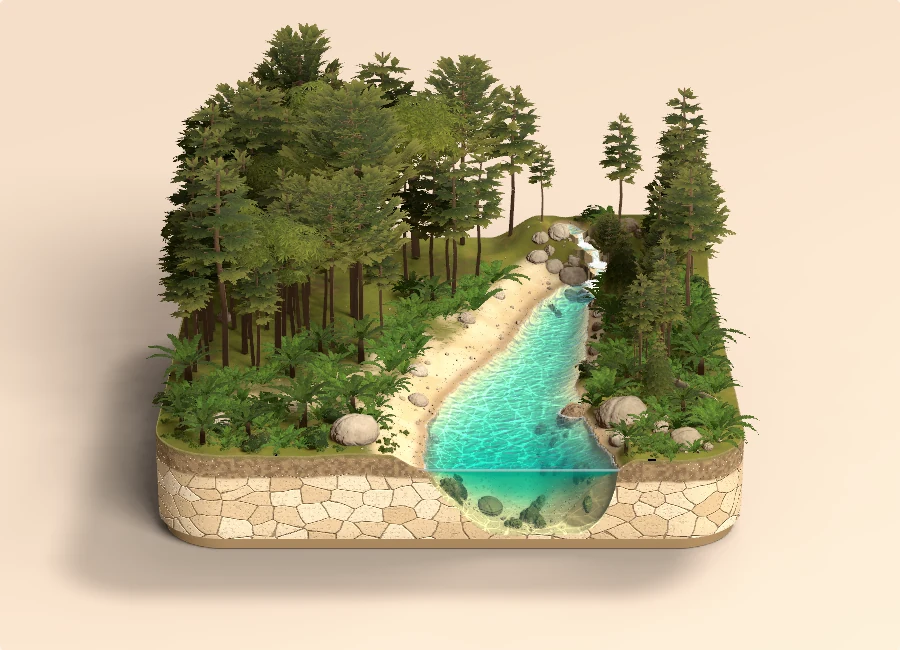
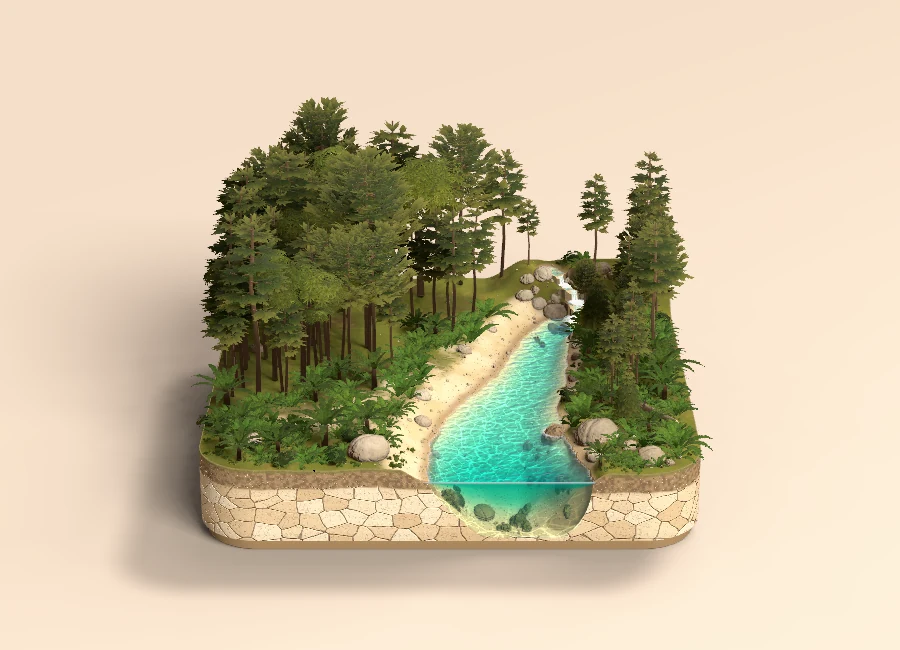
fix: トップの箱庭画像の画角と台座サイズを統一

diff --git a/tests/exhibits/home-thumbnails.spec.ts b/tests/exhibits/home-thumbnails.spec.ts
@@ -1,0 +1,36 @@
+import { test, expect } from '@playwright/test';
+import { mkdirSync } from 'node:fs';
+
+const evidence = process.env.EVIDENCE_DIR || 'test-results/home-thumbnails-page';
+mkdirSync(evidence, { recursive: true });
+test.use({ baseURL: process.env.PREVIEW_URL || 'http://127.0.0.1:3000' });
+
+test('トップの5作品は同じ表示枠で画像を切り取らずに表示する', async ({ page }, info) => {
+  const errors: string[] = [];
+  page.on('pageerror', error => errors.push(error.message));
+  await page.goto('/');
+  const cards = page.locator('.exhibit-card');
+  await expect(cards).toHaveCount(5);
+  const sizes = [];
+  for (const card of await cards.all()) {
+    const image = card.locator('img');
+    await image.scrollIntoViewIfNeeded();
+    await expect.poll(() => image.evaluate(el => (el as HTMLImageElement).complete && (el as HTMLImageElement).naturalWidth > 0)).toBe(true);
+    const dimensions = await image.evaluate(el => {
+      const img = el as HTMLImageElement, r = img.getBoundingClientRect();
+      return { width: r.width, height: r.height, naturalWidth: img.naturalWidth, naturalHeight: img.naturalHeight };
+    });
+    expect(dimensions.naturalWidth).toBe(900);
+    expect(dimensions.naturalHeight).toBe(650);
+    expect(dimensions.width / dimensions.height).toBeCloseTo(900 / 650, 2);
+    sizes.push(dimensions.width);
+    await expect(card).toHaveAttribute('href', /^\/hakoniwa\//);
+  }
+  expect(Math.max(...sizes) - Math.min(...sizes)).toBeLessThan(1);
+  expect(await page.evaluate(() => document.documentElement.scrollWidth <= innerWidth)).toBe(true);
+  await expect(page.locator('canvas, iframe')).toHaveCount(0);
+  expect(errors).toEqual([]);
+  await page.mouse.move(0, 0);
+  await page.evaluate(() => scrollTo(0, 0));
+  await page.screenshot({ path: `${evidence}/${info.project.name}-home.png`, fullPage: true });
+});

diff --git a/scripts/make-hakoniwa-thumbnails.py b/scripts/make-hakoniwa-thumbnails.py
@@ -1,5 +1,6 @@
-"""ブラウザ検証で撮った作品画像から一覧用WebPを生成する。
-使い方: python3 scripts/make-hakoniwa-thumbnails.py test-results/evidence/thumbnails
+"""共通カメラで台座の大きさをそろえて撮った作品画像から一覧用WebPを生成する。
+撮影: node scripts/capture-hakoniwa-thumbnails.mjs http://127.0.0.1:3000
+変換: python3 scripts/make-hakoniwa-thumbnails.py test-results/home-thumbnails
 依存: Pillow。元の3D描画の色・構図を保ち、外部画像は使用しない。
 """
 from pathlib import Path
@@ -11,4 +12,6 @@ destination = Path("public/images/hakoniwa")
 destination.mkdir(parents=True, exist_ok=True)
 for slug in ["sand-pedestal", "nyc-diorama", "library-diorama", "dino-diorama", "electric-town-diorama"]:
     image = Image.open(source / f"{slug}.png").convert("RGB")
+    if image.size != (900, 650):
+        raise ValueError(f"{slug}: 一覧画像は900×650で撮影してください（{image.size}）")
     image.save(destination / f"{slug}.webp", quality=88, method=6)

diff --git a/docs/home-hakoniwa-thumbnails.md b/docs/home-hakoniwa-thumbnails.md
@@ -1,0 +1,34 @@
+# トップページの箱庭画像の画角・大きさ統一
+
+## 対象と方針
+
+トップページは3Dプレビューではなく `public/images/hakoniwa/*.webp` の5枚を表示している。前回の共通カメラ変更だけでは既存画像に反映されないため、最新work `0f3d77a` を基点に画像を撮り直す。
+
+`exhibits/shared/home-camera.ts` の方位0°・俯角22.8°を利用した、詳細ページと同じ実シーンから撮影する。900×650のニューヨークの初期表示を基準として、各作品の実際の台座メッシュの頂点を画面に投影し、その幅と下端位置を合わせる。台座幅は約483.87px（画像幅の53.76%）、下端は約549.06px（高さの84.47%）。
+
+各作品の既存の全体フィットから縮小・平行移動だけを行い、方位・俯角・距離・注視点やモデル、照明、材質を変えない。縮小倍率が安全範囲外なら撮影を停止する。全体の高さや画素面積をそろえるための変形・切り取りは行わない。建物の高いニューヨークと背の低い電気街などは、台座幅が同じでも上側の余白が異なる。
+
+`app/pages/index.vue` やCSSは変更しない。PC・スマホともカード画像の縦横比900/650が同じなので、台座の幅占有率と下端位置も保たれる。詳細ページのインタラクティブカメラ・操作・リセットは変更しない。
+
+## 再生成
+
+```sh
+npm run build:exhibits
+# public/ をローカルで配信（またはNuxtを起動）
+python3 -m http.server 3010 --bind 127.0.0.1 --directory public
+# 別ターミナル
+node scripts/capture-hakoniwa-thumbnails.mjs http://127.0.0.1:3010
+python3 scripts/make-hakoniwa-thumbnails.py test-results/home-thumbnails
+```
+
+撮影はChromium / SwiftShader、quality=low、900×650、DPR1。既存の一覧生成と同じ低負荷描画を用い、WebPも従来どおりquality=88。撮影時に共通ホーム方向、台座幅と下端の誤差0.1px未満、JSエラーなしを検証し、`test-results/home-thumbnails/metrics.json` に計測値を保存する。
+
+トップページの確認は `tests/exhibits/home-thumbnails.spec.ts`。5枚の読み込み、900×650の画像サイズ、全カードの同じ表示幅と縦横比、横スクロールなし、詳細ページへのリンク、3Dを読み込まないことを確認する。比較画像は `test-results/home-before/` と `test-results/home-after/` に保存。
+
+初回は作業ブランチ `fix/homepage-hakoniwa-thumbnails` 内で変更準備と確認を完了。その後ユーザーの承認を受け、workへの反映と自動デプロイ確認へ進む。mainは変更しない。実機Safari・公開配信版の実表示は未確認。
+
+## 確認結果
+
+撮影5作品すべて方位0°・俯角22.8°、台座幅483.867033159137px・下端549.058446694189pxで一致。撮影倍率はニューヨーク1、島0.83674、図書館0.86557、川辺0.86125、電気街0.86654。
+
+`npm run build` 成功（既存のchunkサイズ警告あり）。`node --check scripts/capture-hakoniwa-thumbnails.mjs` と `git diff --check` 成功。トップの限定ブラウザテストはPC1440×1000・スマホ390×844の2件成功。変更後の全5画像を両サイズのスクリーンショットで確認し、見切れなし。
